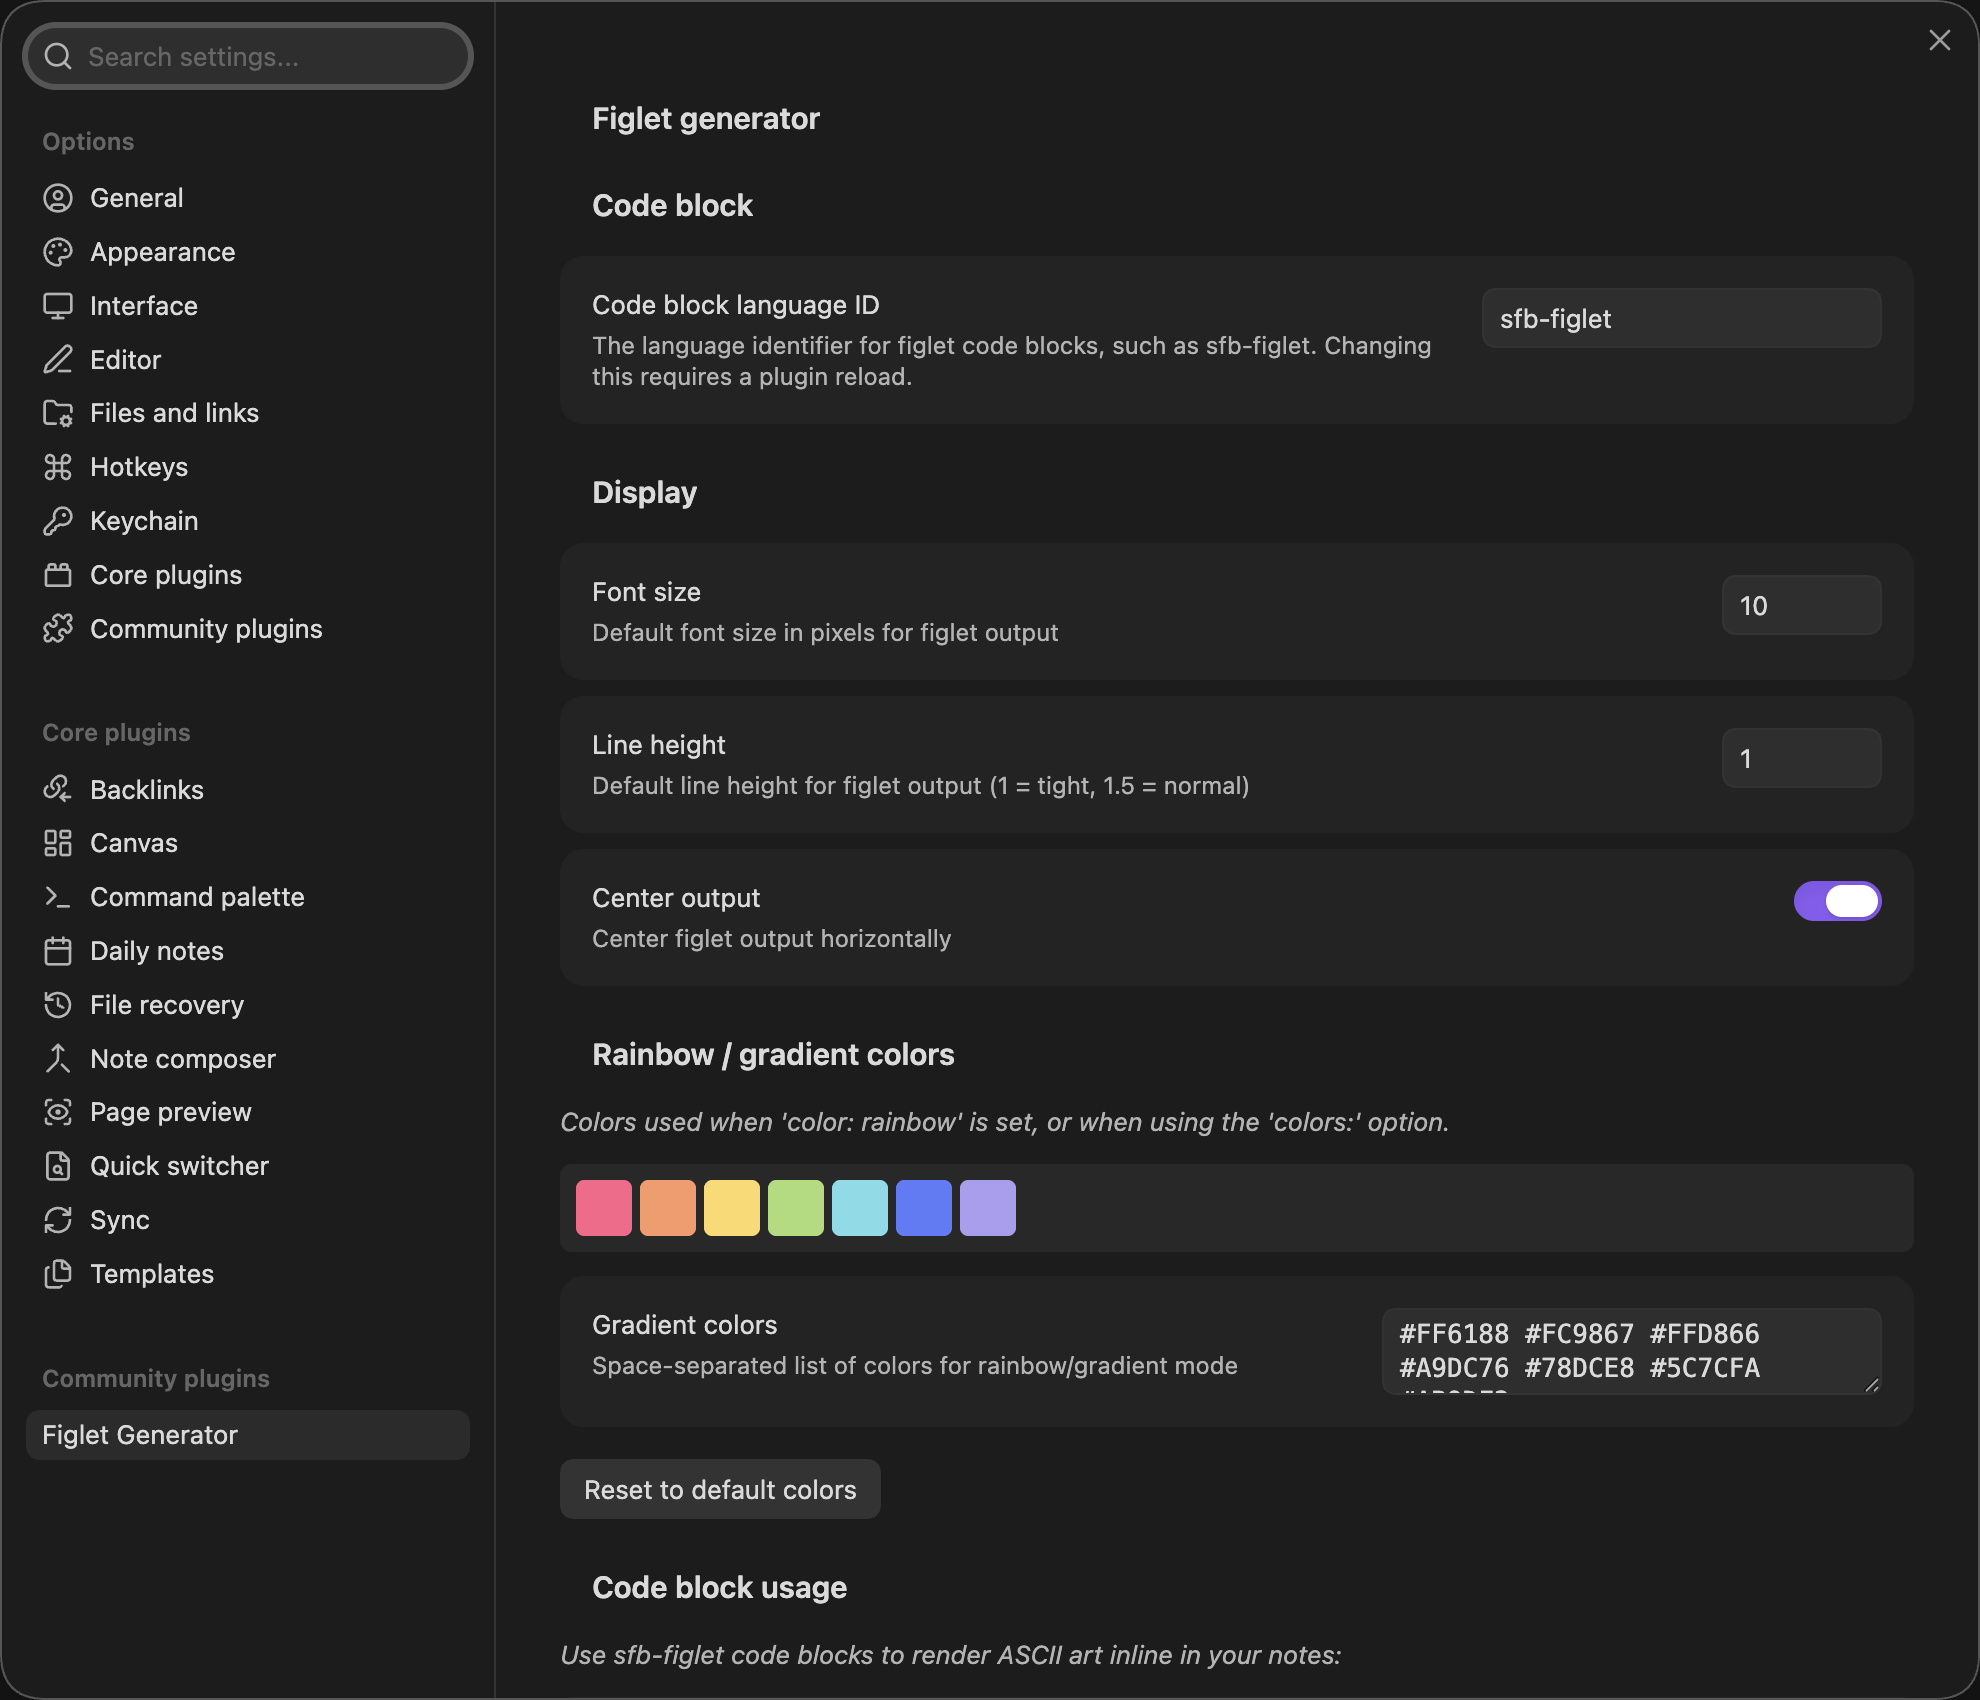
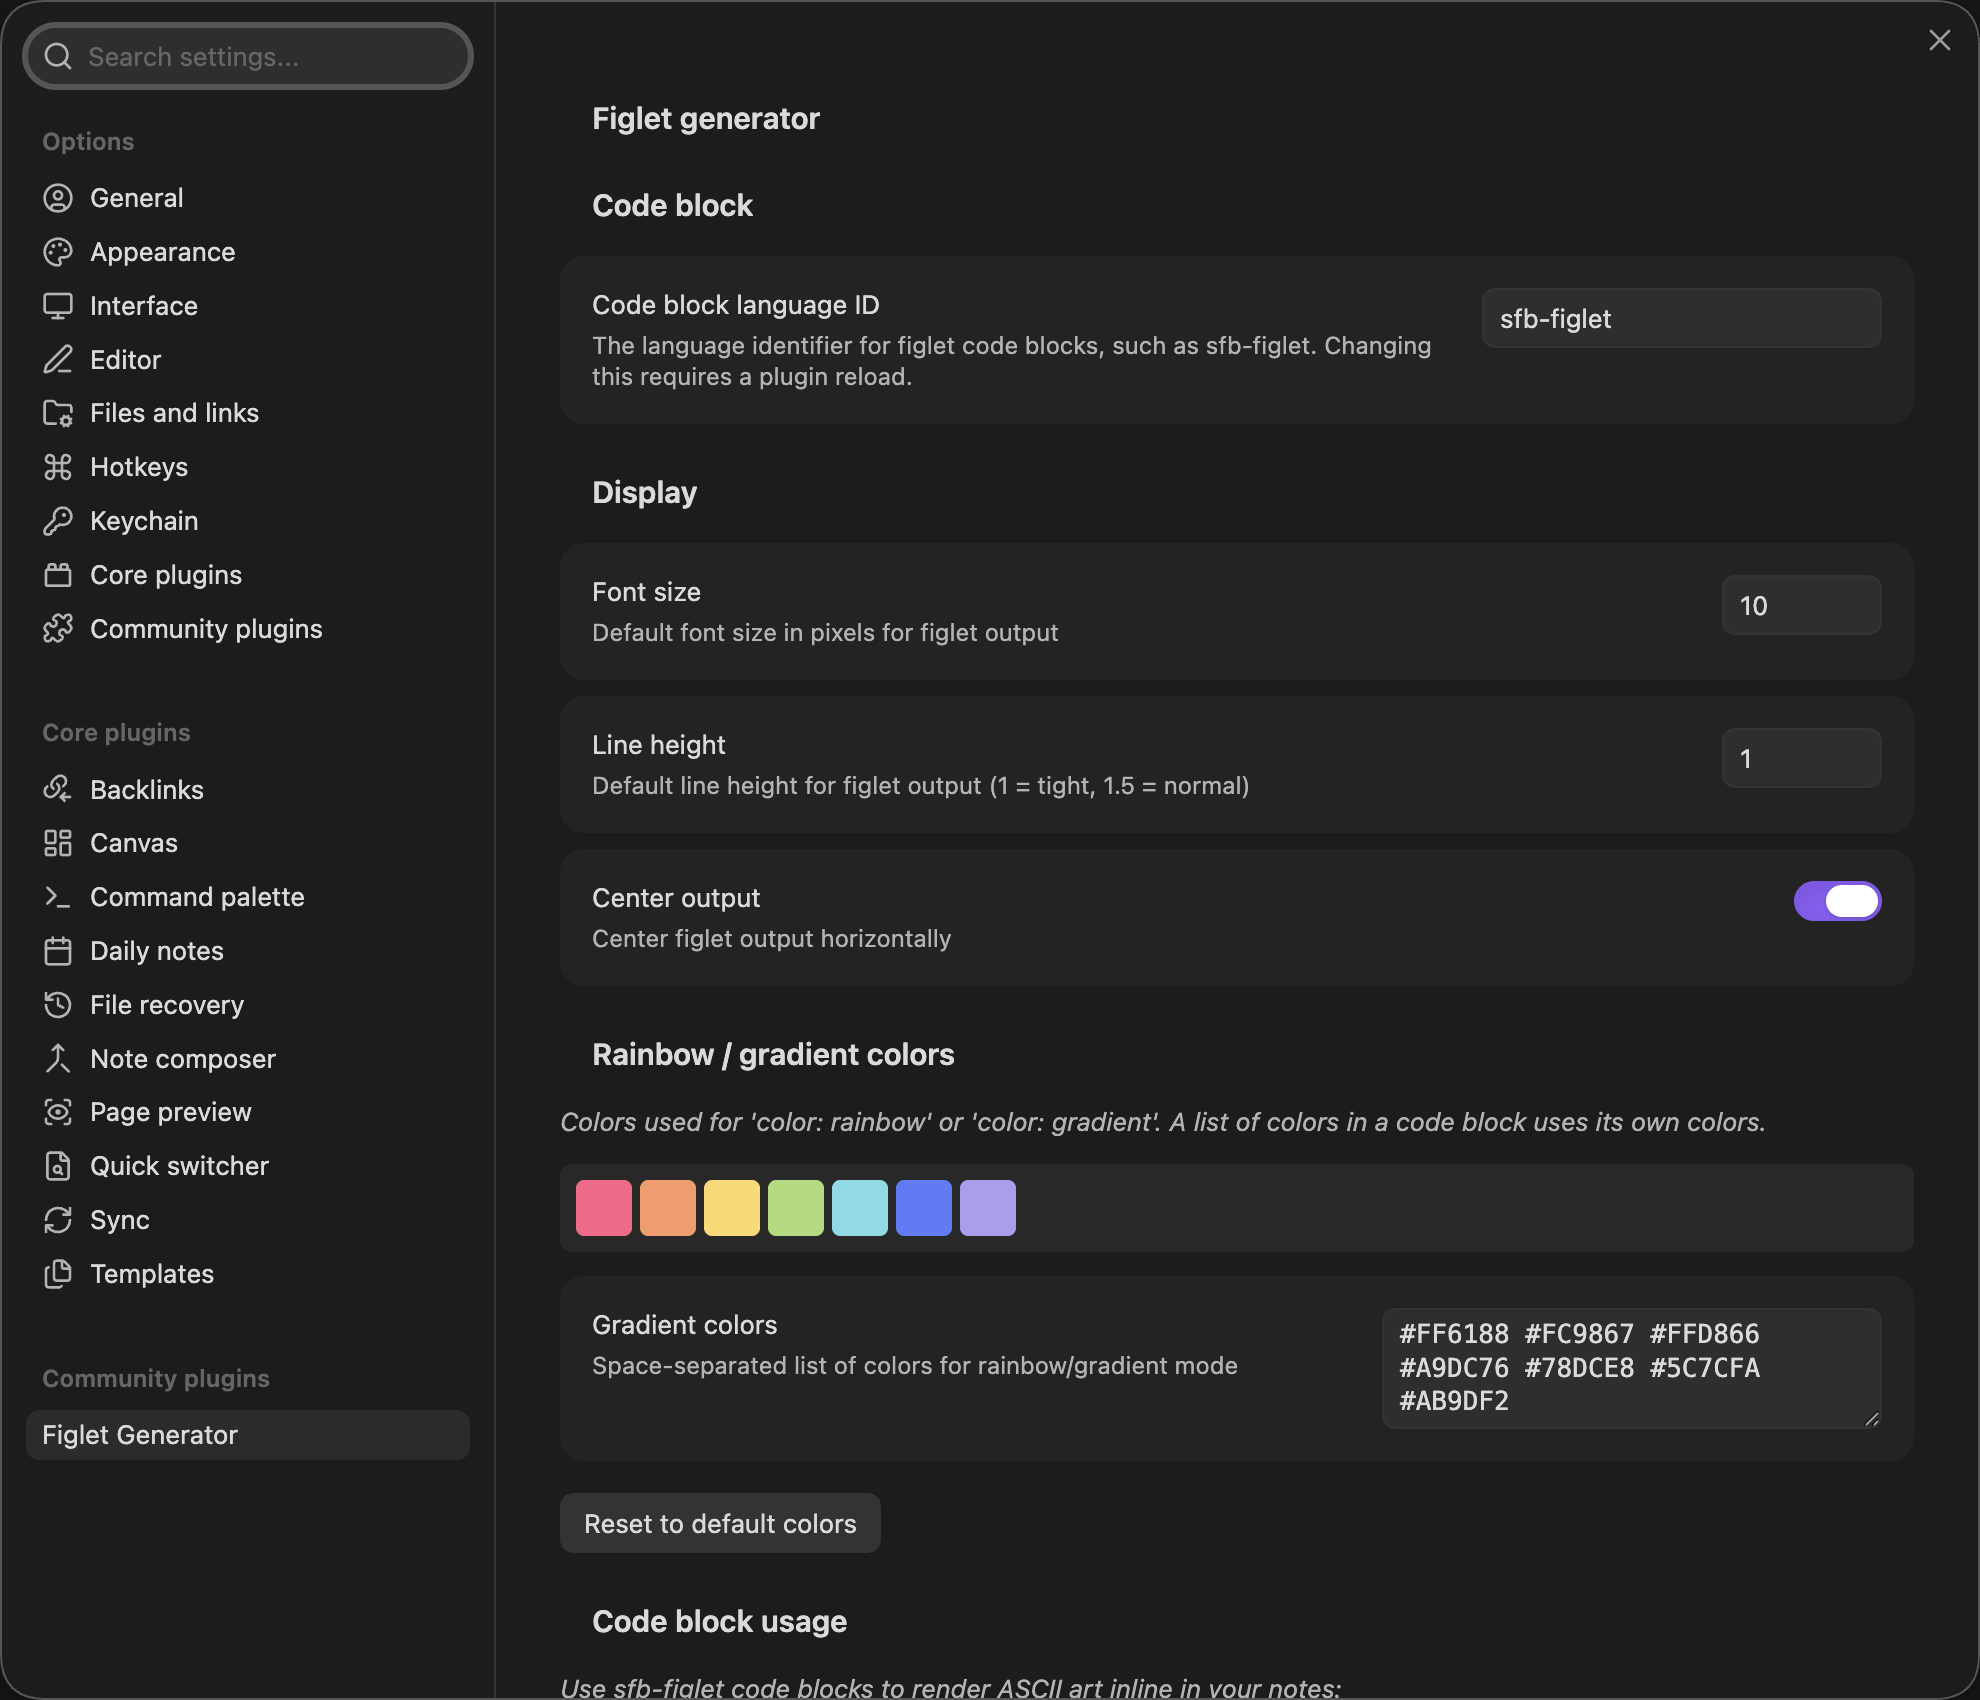
Blend space-separated and leading-dot rgb() gradient stops (#46)
* [fix/43-45-rgb-parsing] Blend space-separated and leading-dot rgb() gradient stops

- parseRgb reads one channel pattern (5, 5.5 or .5, optional %) in both
  the comma form and the CSS4 space form with "/ alpha" (#43, #45)
- sanitizeColor accepts the "/" of the space form
- Tests: space form and leading-dot equivalence; the mixed-channel case
  is commented and asserted to band by design (#44)

Closes #43, closes #44, closes #45

* [fix/43-45-rgb-parsing] Recapture settings.png on the current settings tab

Changed region(s): [[0.2773, 0.8729, 0.6778, 1.0], [0.3697, 0.6547, 0.8934, 0.6859], [0.7086, 0.8106, 0.7702, 0.8418]]

diff --git a/src/generator.ts b/src/generator.ts
@@ -10,8 +10,8 @@ function sanitizeColor(color: string): string {
 	const trimmed = color.trim();
 	// Allow hex colors
 	if (/^#[0-9A-Fa-f]{3,8}$/.test(trimmed)) return trimmed;
-	// Allow rgb/rgba
-	if (/^rgba?\(\s*[\d.,\s%]+\)$/i.test(trimmed)) return trimmed;
+	// Allow rgb/rgba, comma or space separated (with "/ alpha")
+	if (/^rgba?\(\s*[\d.,\s%/]+\)$/i.test(trimmed)) return trimmed;
 	// Allow hsl/hsla
 	if (/^hsla?\(\s*[\d.,\s%deg]+\)$/i.test(trimmed)) return trimmed;
 	// Allow CSS named colors (basic set) and CSS variables
@@ -177,6 +177,13 @@ export async function generateFigletText(
 
 type Rgb = [number, number, number];
 
+// A CSS number (5, 5.5 or .5), then an optional % sign
+const RGB_CHANNEL = String.raw`(\d+(?:\.\d+)?|\.\d+)(%?)`;
+const RGB_ALPHA = String.raw`(?:\d+(?:\.\d+)?|\.\d+)%?`;
+// rgb(255, 0, 0) / rgba(255, 0, 0, 0.5), and CSS4 rgb(255 0 0) / rgb(255 0 0 / 50%)
+const RGB_COMMA = new RegExp(String.raw`^rgba?\(\s*${RGB_CHANNEL}\s*,\s*${RGB_CHANNEL}\s*,\s*${RGB_CHANNEL}\s*(?:,\s*${RGB_ALPHA}\s*)?\)$`, "i");
+const RGB_SPACE = new RegExp(String.raw`^rgba?\(\s*${RGB_CHANNEL}\s+${RGB_CHANNEL}\s+${RGB_CHANNEL}\s*(?:\/\s*${RGB_ALPHA}\s*)?\)$`, "i");
+
 /**
  * Parse a hex (#rgb, #rgba, #rrggbb, #rrggbbaa) or rgb()/rgba() color into
  * its red, green and blue channels. Alpha is dropped. Returns null for
@@ -191,16 +198,14 @@ function parseRgb(color: string): Rgb | null {
 		return [0, 2, 4].map((i) => parseInt(hex.slice(i, i + 2), 16)) as Rgb;
 	}
 
+	const fn = RGB_COMMA.exec(color) ?? RGB_SPACE.exec(color);
+	if (!fn) return null;
 	// Channels are all numbers (0-255) or all percentages, as CSS requires
-	const num = /^rgba?\(\s*(\d+(?:\.\d+)?)\s*,\s*(\d+(?:\.\d+)?)\s*,\s*(\d+(?:\.\d+)?)\s*(?:,\s*[\d.]+%?\s*)?\)$/i.exec(color);
-	if (num) {
-		return [num[1], num[2], num[3]].map((c) => Math.min(255, Math.round(Number(c)))) as Rgb;
-	}
-	const pct = /^rgba?\(\s*(\d+(?:\.\d+)?)%\s*,\s*(\d+(?:\.\d+)?)%\s*,\s*(\d+(?:\.\d+)?)%\s*(?:,\s*[\d.]+%?\s*)?\)$/i.exec(color);
-	if (pct) {
-		return [pct[1], pct[2], pct[3]].map((c) => Math.min(255, Math.round((Number(c) * 255) / 100))) as Rgb;
-	}
-	return null;
+	const percent = fn[2] === "%";
+	if (fn[4] !== fn[2] || fn[6] !== fn[2]) return null;
+	return [fn[1], fn[3], fn[5]].map((c) =>
+		Math.min(255, Math.round(percent ? (Number(c) * 255) / 100 : Number(c))),
+	) as Rgb;
 }
 
 function toHex([r, g, b]: Rgb): string {

diff --git a/README.md b/README.md
@@ -184,7 +184,7 @@ load_text: frontmatter
 | `color: #FF0000 #FFFF00 #00FF00` | 3-color gradient |
 | `color: rainbow` or `color: gradient` | Palette from settings |
 
-Gradients blend smoothly between hex and `rgb()`/`rgba()` stops, with channels as numbers (`rgb(255, 0, 0)`) or percentages (`rgb(100%, 0%, 0%)`). With any other stop (a named color, a CSS variable, `hsl()`), each part of the text takes its nearest stop instead, in bands.
+Gradients blend smoothly between hex and `rgb()`/`rgba()` stops, with channels as numbers (`rgb(255, 0, 0)`) or percentages (`rgb(100%, 0%, 0%)`), comma or space separated (`rgb(255 0 0 / 50%)`). With any other stop (a named color, a CSS variable, `hsl()`), each part of the text takes its nearest stop instead, in bands.
 
 #### Examples
 
